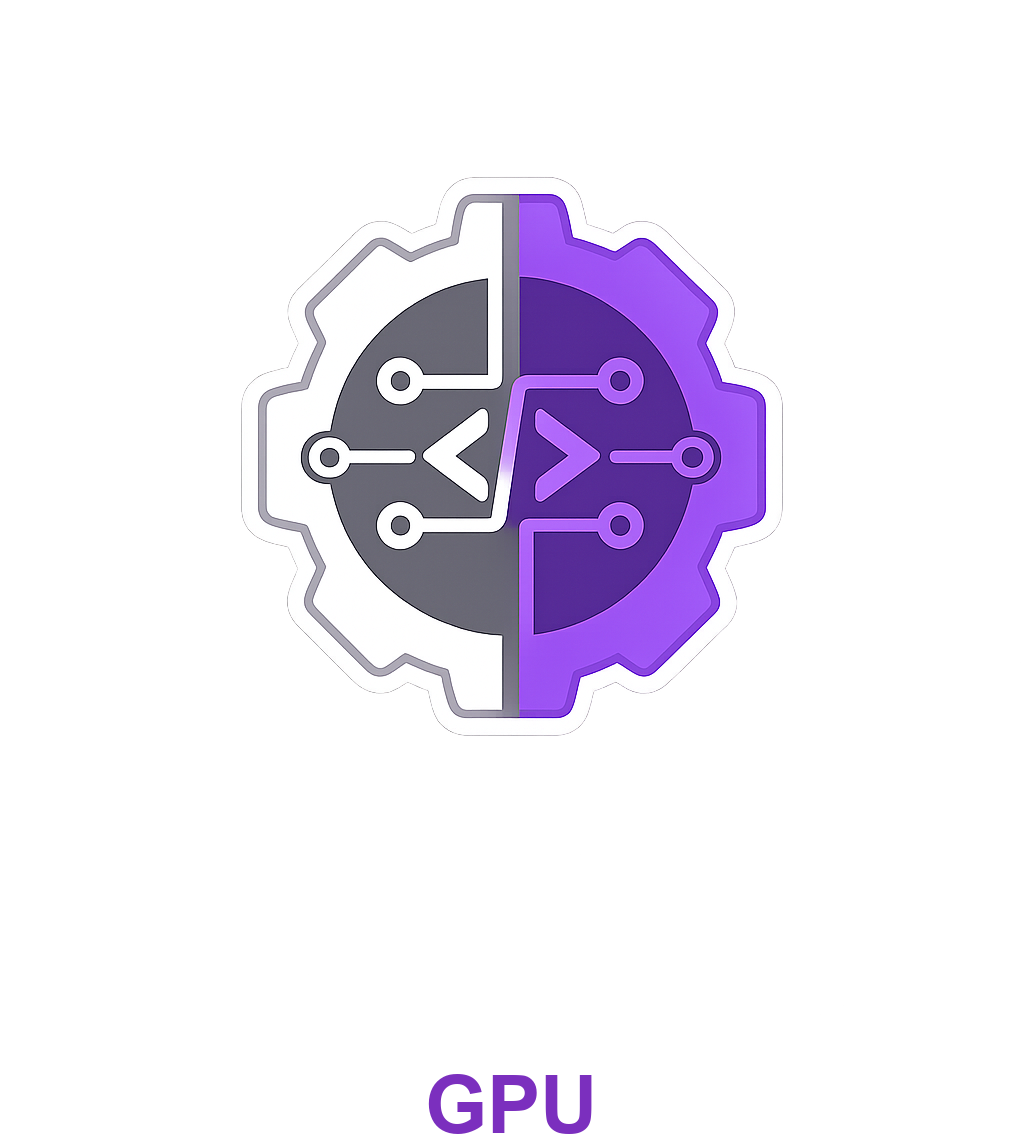
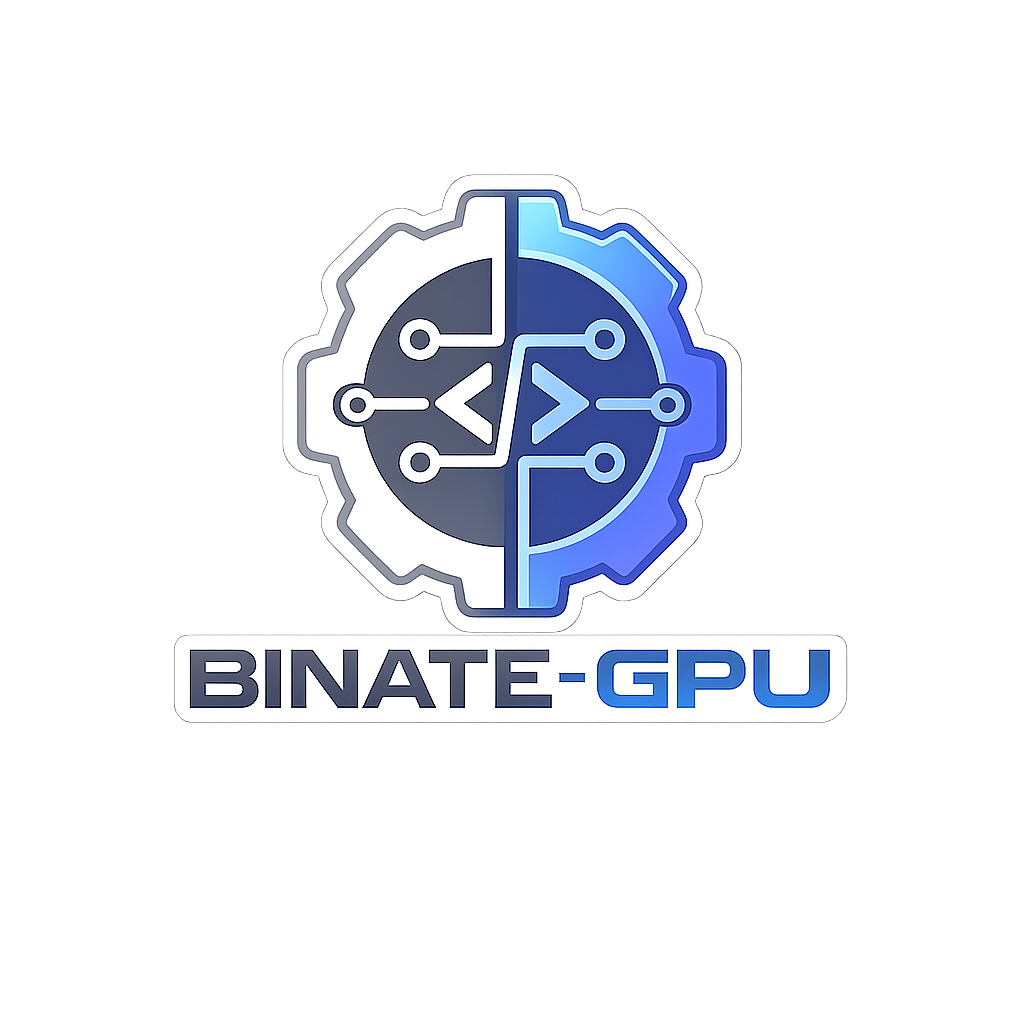
Documentation

Changed region(s): [[0.1875, 0.1562, 0.8125, 0.7188], [0.4062, 0.9375, 0.5938, 1.0]]

diff --git a/crates/binate-gpu-render/src/pipeline.rs b/crates/binate-gpu-render/src/pipeline.rs
@@ -1,8 +1,10 @@
 use bytemuck::{Pod, Zeroable};
 use wgpu::util::DeviceExt;
 
-// ── Shared vertex type ────────────────────────────────────────────────────────
-
+/// Vertex for the rect pipeline. `rect` carries the pixel-space bounds of the
+/// full rectangle to every vertex so the SDF shader can compute corner distance
+/// regardless of which corner the vertex sits at. `_pad` aligns the struct to
+/// 16 bytes as required by wgpu's vertex buffer layout rules.
 #[repr(C)]
 #[derive(Copy, Clone, Pod, Zeroable)]
 pub struct RectVertex {
@@ -10,7 +12,7 @@ pub struct RectVertex {
     pub color:  [f32; 4],
     pub rect:   [f32; 4], // pixel-space bounds: [x0, y0, x1, y1]
     pub radius: f32,
-    pub _pad:   f32,      // align to 16 bytes
+    pub _pad:   f32,
 }
 
 #[repr(C)]
@@ -21,16 +23,13 @@ pub struct TextVertex {
     pub color: [f32; 4],
 }
 
-// ── Screen uniform ────────────────────────────────────────────────────────────
-
 #[repr(C)]
 #[derive(Copy, Clone, Pod, Zeroable)]
 pub struct ScreenUniform {
     pub size: [f32; 2],
 }
 
-// ── RectPipeline ─────────────────────────────────────────────────────────────
-
+/// Renders filled rectangles with optional SDF rounded corners.
 pub struct RectPipeline {
     pub pipeline:   wgpu::RenderPipeline,
     pub bind_group: wgpu::BindGroup,
@@ -123,8 +122,7 @@ impl RectPipeline {
     }
 }
 
-// ── TextPipeline ──────────────────────────────────────────────────────────────
-
+/// Renders glyph quads sampled from the R8 atlas texture.
 pub struct TextPipeline {
     pub pipeline:      wgpu::RenderPipeline,
     pub screen_bg:     wgpu::BindGroup,

diff --git a/crates/binate-gpu-native/src/macos.rs b/crates/binate-gpu-native/src/macos.rs
@@ -14,10 +14,10 @@ use objc2_app_kit::{
 use objc2_foundation::{MainThreadMarker, NSArray, NSPoint, NSRect, NSSize, NSString};
 use std::cell::Cell;
 
-// ── Button action target ──────────────────────────────────────────────────────
-
+// A Rust fat pointer (`*mut dyn Fn()`) is two words: data pointer + vtable pointer.
+// We split it into two `*mut ()` ivars so it can be stored inside an Objective-C
+// object without a separate heap allocation. `Drop` reassembles and frees it.
 struct ActionTargetIvars {
-    // Fat pointer stored as two thin pointers: data + vtable.
     callback_data:   Cell<*mut ()>,
     callback_vtable: Cell<*mut ()>,
 }
@@ -73,11 +73,13 @@ impl Drop for ActionTarget {
     }
 }
 
-// ── Public entry point ────────────────────────────────────────────────────────
-
+/// Entry point for the macOS native render path.
 pub struct NativeApp;
 
 impl NativeApp {
+    /// Build a `View` tree once and render it as a native AppKit window.
+    /// `targets` keeps `ActionTarget` objects alive for the duration of the run
+    /// loop; dropping them before `app.run` would leave dangling ObjC selectors.
     pub fn run(build_view: impl Fn() -> View + 'static) {
         let mtm = MainThreadMarker::new().expect("must run on main thread");
 
@@ -111,8 +113,6 @@ impl NativeApp {
         drop(targets);
     }
 }
-
-// ── View → NSView tree ────────────────────────────────────────────────────────
 
 fn build_nsview(
     mtm: MainThreadMarker,

diff --git a/crates/binate-gpu-core/src/layout.rs b/crates/binate-gpu-core/src/layout.rs
@@ -1,11 +1,15 @@
 use crate::view::{Color, FontWeight, TextAlign, View};
 use taffy::{Layout, NodeId, Size, TaffyTree};
 
+/// A single positioned UI element after layout. `layout.location` is in
+/// absolute pixel coordinates relative to the window top-left.
 pub struct FlatView<'a> {
     pub kind: FlatViewKind<'a>,
     pub layout: Layout,
 }
 
+/// The leaf variants of a laid-out view. Container nodes (Column/Row) are
+/// consumed during layout and do not appear in the flat list.
 pub enum FlatViewKind<'a> {
     Rect {
         color: Color,
@@ -27,12 +31,13 @@ pub enum FlatViewKind<'a> {
     },
 }
 
+/// Stateless entry point for layout. Call `ViewTree::build` each frame.
 pub struct ViewTree;
 
 impl ViewTree {
-    /// Build a flat list of positioned views. `measure` returns (width, height) for a
-    /// text string at a given font size and available width — used to size leaf nodes
-    /// with real shaped metrics rather than a character-count approximation.
+    /// Run Taffy flexbox layout on `root` and return a flat list of positioned
+    /// leaves. `measure` is called for each text/button node to get its intrinsic
+    /// size from real shaped metrics before layout is computed.
     pub fn build<'a>(
         root: &'a View,
         width: f32,

diff --git a/crates/binate-gpu-core/src/view.rs b/crates/binate-gpu-core/src/view.rs
@@ -1,5 +1,6 @@
 use taffy::Style;
 
+/// Linear RGBA color with components in [0, 1].
 #[derive(Clone, Copy, Debug)]
 pub struct Color {
     pub r: f32,
@@ -35,6 +36,8 @@ pub enum TextAlign {
     Right,
 }
 
+/// The UI tree. Each variant is a node; `Column` and `Row` are containers,
+/// the rest are leaves that produce rendered output.
 pub enum View {
     Rect {
         color: Color,
@@ -67,8 +70,7 @@ pub enum View {
     },
 }
 
-// ── View builders ─────────────────────────────────────────────────────────────
-
+/// Builder returned by [`text`]. Call `.into()` or `.into_view()` to finish.
 pub struct TextView {
     view: View,
 }
@@ -106,6 +108,7 @@ impl From<TextView> for View {
     }
 }
 
+/// Builder returned by [`button`]. Call `.into()` or `.into_view()` to finish.
 pub struct ButtonView {
     view: View,
 }
@@ -149,8 +152,6 @@ impl From<ButtonView> for View {
         b.view
     }
 }
-
-// ── Helper functions ──────────────────────────────────────────────────────────
 
 pub fn text(content: impl Into<String>, font_size: f32) -> TextView {
     TextView {

diff --git a/crates/binate-gpu-core/src/signal.rs b/crates/binate-gpu-core/src/signal.rs
@@ -1,19 +1,23 @@
 use std::cell::{Cell, RefCell};
 use std::rc::Rc;
 
+// Thread-local dirty flag; set by any Signal::set on this thread.
 thread_local! {
     static NEEDS_REDRAW: Cell<bool> = Cell::new(false);
 }
 
-/// Returns true if any signal was set since the last call to `clear_redraw`.
+/// Returns true if any `Signal` was written since the last `clear_redraw`.
 pub fn needs_redraw() -> bool {
     NEEDS_REDRAW.with(|f| f.get())
 }
 
+/// Clears the per-thread redraw flag. Call this after requesting a redraw.
 pub fn clear_redraw() {
     NEEDS_REDRAW.with(|f| f.set(false));
 }
 
+/// Shared, cloneable reactive value. Clones share the same underlying cell,
+/// so writes from any clone are visible to all others and trigger a redraw.
 pub struct Signal<T: Copy> {
     value: Rc<RefCell<T>>,
     dirty: Rc<Cell<bool>>,
@@ -31,12 +35,14 @@ impl<T: Copy> Signal<T> {
         *self.value.borrow()
     }
 
+    /// Write a new value and mark both the per-signal and per-thread dirty flags.
     pub fn set(&self, value: T) {
         *self.value.borrow_mut() = value;
         self.dirty.set(true);
         NEEDS_REDRAW.with(|f| f.set(true));
     }
 
+    /// True if this signal was written since the last `clear_dirty`.
     pub fn is_dirty(&self) -> bool {
         self.dirty.get()
     }

diff --git a/crates/binate-gpu-render/src/lib.rs b/crates/binate-gpu-render/src/lib.rs
@@ -1,3 +1,10 @@
+//! GPU render pipelines and the main `Renderer`.
+//!
+//! Two wgpu pipelines are used per frame: the rect pipeline draws filled
+//! rounded rectangles via an SDF fragment shader, and the text pipeline
+//! draws glyph quads sampled from the atlas texture. Rects are submitted
+//! first so text always composites on top.
+
 mod pipeline;
 mod renderer;
 

diff --git a/crates/binate-gpu-core/src/lib.rs b/crates/binate-gpu-core/src/lib.rs
@@ -1,3 +1,9 @@
+//! Core types shared across all binate-gpu crates.
+//!
+//! Provides the `View` tree (the declarative UI description), `Signal<T>` for
+//! reactive state, and `ViewTree` which runs Taffy layout and produces a flat
+//! list of pixel-positioned quads ready for the GPU renderer.
+
 mod layout;
 mod signal;
 mod view;

diff --git a/crates/binate-gpu-native/src/lib.rs b/crates/binate-gpu-native/src/lib.rs
@@ -1,3 +1,9 @@
+//! Native platform bridge (macOS only).
+//!
+//! `NativeApp::run` converts a `View` tree into a live AppKit view hierarchy
+//! using objc2 bindings instead of the GPU renderer. Button callbacks are
+//! stored as Rust closures behind a custom Objective-C `ActionTarget` class.
+
 #[cfg(target_os = "macos")]
 mod macos;
 

diff --git a/crates/binate-gpu-platform/src/lib.rs b/crates/binate-gpu-platform/src/lib.rs
@@ -1,3 +1,9 @@
+//! Platform event loop and windowing via winit + wgpu.
+//!
+//! `App::run` is the entry point. It opens an 800x600 window, initializes the
+//! GPU renderer, and drives the render loop. On each left-click it rebuilds
+//! the view tree to hit-test buttons; on `RedrawRequested` it re-renders.
+
 mod app;
 
 pub use app::App;

diff --git a/crates/binate-gpu-text/src/atlas.rs b/crates/binate-gpu-text/src/atlas.rs
@@ -1,5 +1,7 @@
+// Single R8Unorm texture; increase if the atlas fills up for large font sizes.
 const ATLAS_SIZE: u32 = 1024;
 
+/// UV coordinates and pixel metrics for one glyph in the atlas.
 #[derive(Clone, Copy, Debug)]
 pub struct GlyphUv {
     pub u0: f32,
@@ -12,6 +14,10 @@ pub struct GlyphUv {
     pub top: i32,
 }
 
+/// Shelf-packing glyph atlas backed by a single GPU texture.
+///
+/// Glyphs are packed left-to-right on the current shelf. When a glyph does
+/// not fit horizontally a new shelf is started at `shelf_y + shelf_h`.
 pub struct GlyphAtlas {
     pub texture: wgpu::Texture,
     pub view: wgpu::TextureView,

diff --git a/crates/binate-gpu-text/src/lib.rs b/crates/binate-gpu-text/src/lib.rs
@@ -1,3 +1,9 @@
+//! Text shaping and glyph atlas management.
+//!
+//! `TextRenderer` uses cosmic-text to shape a string into positioned glyphs.
+//! Each glyph bitmap is packed into a `GlyphAtlas` (a single R8 GPU texture)
+//! on first use and cached by `CacheKey` for subsequent frames.
+
 mod atlas;
 mod renderer;
 

diff --git a/crates/binate-gpu-text/src/renderer.rs b/crates/binate-gpu-text/src/renderer.rs
@@ -21,6 +21,7 @@ pub fn measure_text(font_system: &mut FontSystem, text: &str, font_size: f32, ma
     (width, height)
 }
 
+/// A positioned glyph ready to be uploaded as a textured quad.
 pub struct GlyphQuad {
     pub x: f32,
     pub y: f32,
@@ -28,6 +29,10 @@ pub struct GlyphQuad {
     pub color: Color,
 }
 
+/// Owns the cosmic-text `FontSystem` and per-session glyph UV cache.
+///
+/// The UV cache maps `CacheKey` (font + size + subpixel position) to atlas
+/// coordinates so each unique glyph is rasterized and uploaded only once.
 pub struct TextRenderer {
     font_system: FontSystem,
     swash_cache: SwashCache,